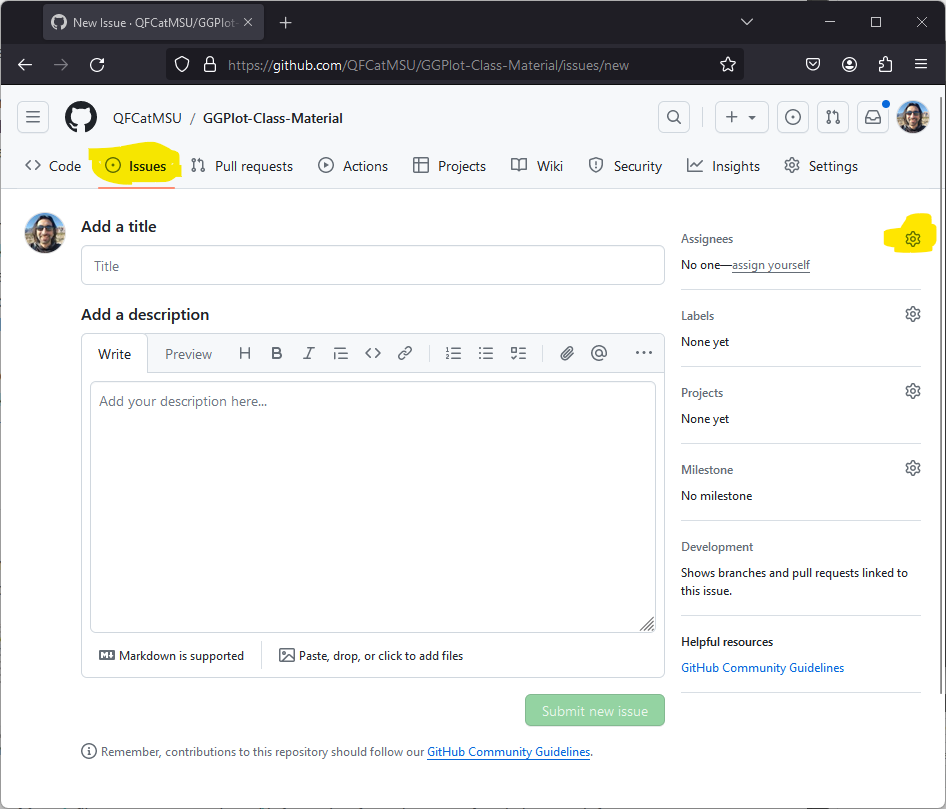
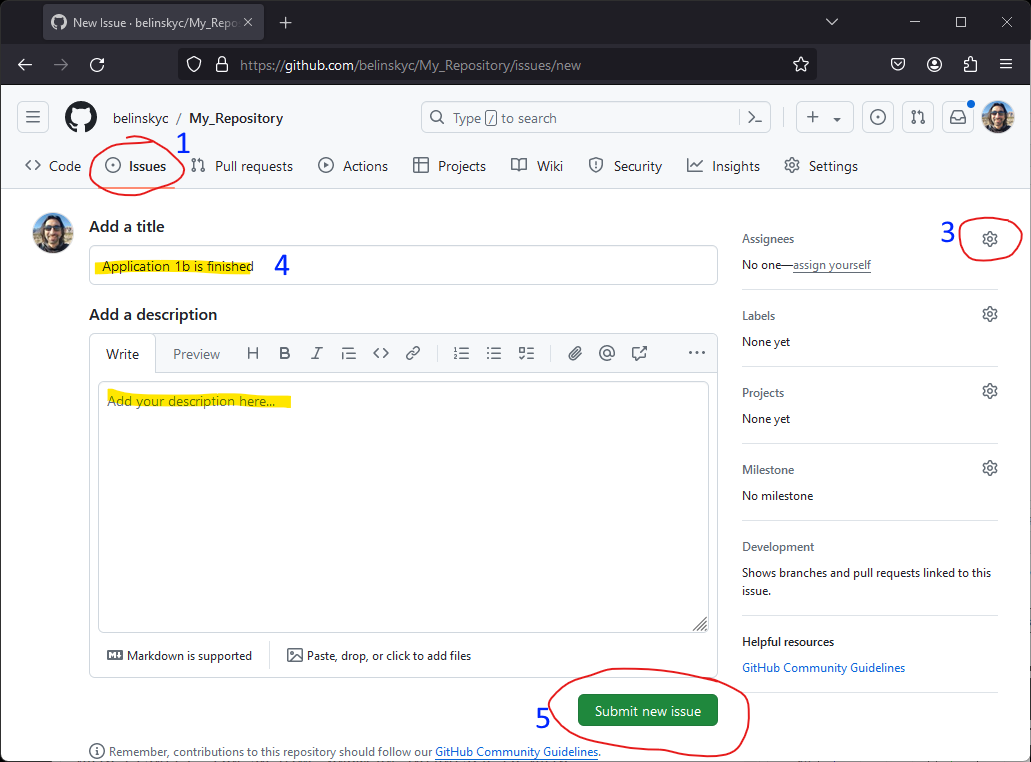
Updates to lessons 1a and 1b

diff --git a/docs/lessons/01b-GitAndGitHubSetup.html b/docs/lessons/01b-GitAndGitHubSetup.html
@@ -235,7 +235,7 @@ pre > code.sourceCode > span > a:first-child::before { text-decoration: underlin
   <ul class="collapse">
   <li><a href="#homebrew-installation-of-git-on-mac" id="toc-homebrew-installation-of-git-on-mac" class="nav-link" data-scroll-target="#homebrew-installation-of-git-on-mac"><span class="header-section-number">2.1</span> Homebrew installation of Git on Mac:</a></li>
   </ul></li>
-  <li><a href="#terminal" id="toc-terminal" class="nav-link" data-scroll-target="#terminal"><span class="header-section-number">3</span> Terminal</a></li>
+  <li><a href="#rstudio-terminal" id="toc-rstudio-terminal" class="nav-link" data-scroll-target="#rstudio-terminal"><span class="header-section-number">3</span> RStudio Terminal</a></li>
   <li><a href="#configuring-git-on-your-computer" id="toc-configuring-git-on-your-computer" class="nav-link" data-scroll-target="#configuring-git-on-your-computer"><span class="header-section-number">4</span> Configuring Git on your computer</a>
   <ul class="collapse">
   <li><a href="#adding-the-username-and-email" id="toc-adding-the-username-and-email" class="nav-link" data-scroll-target="#adding-the-username-and-email"><span class="header-section-number">4.1</span> Adding the username and email</a></li>
@@ -263,7 +263,8 @@ pre > code.sourceCode > span > a:first-child::before { text-decoration: underlin
   <ul class="collapse">
   <li><a href="#questions-to-answer" id="toc-questions-to-answer" class="nav-link" data-scroll-target="#questions-to-answer"><span class="header-section-number">10.1</span> Questions to answer</a></li>
   </ul></li>
-  <li><a href="#git-and-github-extension" id="toc-git-and-github-extension" class="nav-link" data-scroll-target="#git-and-github-extension"><span class="header-section-number">11</span> <del>Git and GitHub (extension)</del></a></li>
+  <li><a href="#extension-git-and-github" id="toc-extension-git-and-github" class="nav-link" data-scroll-target="#extension-git-and-github"><span class="header-section-number">11</span> Extension: Git and GitHub</a></li>
+  <li><a href="#extension-use-git-tab" id="toc-extension-use-git-tab" class="nav-link" data-scroll-target="#extension-use-git-tab"><span class="header-section-number">12</span> Extension: Use Git Tab</a></li>
   </ul>
 </nav>
 </nav>
@@ -296,7 +297,7 @@ pre > code.sourceCode > span > a:first-child::before { text-decoration: underlin
 <section id="to-dos" class="level3" data-number="0.1">
 <h3 data-number="0.1" class="anchored" data-anchor-id="to-dos"><span class="header-section-number">0.1</span> To-dos</h3>
 <ul>
-<li>Show how to use Git tab in app?</li>
+<li>Show how to use Git tab in app as an extension</li>
 </ul>
 </section>
 <section id="purpose" class="level2" data-number="1">
@@ -304,6 +305,7 @@ pre > code.sourceCode > span > a:first-child::before { text-decoration: underlin
 <ul>
 <li><p>Setup Git on your computer</p></li>
 <li><p>Use Git to connect your RStudio Project to a GitHub repository</p></li>
+<li><p>Share your GitHub repository</p></li>
 </ul>
 <section id="prerequisite" class="level3" data-number="1.1">
 <h3 data-number="1.1" class="anchored" data-anchor-id="prerequisite"><span class="header-section-number">1.1</span> Prerequisite</h3>
@@ -312,7 +314,7 @@ pre > code.sourceCode > span > a:first-child::before { text-decoration: underlin
 </section>
 <section id="install-git-on-your-computer-need-version-2.44-or-higher" class="level2" data-number="2">
 <h2 data-number="2" class="anchored" data-anchor-id="install-git-on-your-computer-need-version-2.44-or-higher"><span class="header-section-number">2</span> Install Git on your computer (need version 2.44 or higher)</h2>
-<p>For <strong><em>Windows</em></strong>, <a href="https://git-scm.com/downloads">click here to download and install Git</a> – click on <strong><em>Download for Windows</em></strong>. There are a lot of questions Git asks when installing, you can choose the default choice on everything.</p>
+<p>For <strong><em>Windows</em></strong>, <a href="https://git-scm.com/downloads">click here to download and install Git</a> – click on <strong><em>Download for Windows</em></strong>. There are a lot of questions Git asks when installing, you can choose the default option for everything.</p>
 <p>&nbsp;</p>
 <p>For <strong><em>Mac</em></strong>, <span class="hl">there is no direct installation of Git</span>. I recommend using <strong>Homebrew</strong>, which is a useful tool for any programmer using a Mac because it gives you access to a bunch of programming tools.</p>
 <section id="homebrew-installation-of-git-on-mac" class="level3" data-number="2.1">
@@ -337,9 +339,9 @@ pre > code.sourceCode > span > a:first-child::before { text-decoration: underlin
 </section>
 </section>
 </section>
-<section id="terminal" class="level2" data-number="3">
-<h2 data-number="3" class="anchored" data-anchor-id="terminal"><span class="header-section-number">3</span> Terminal</h2>
-<p>We will be using the <strong><em>Terminal</em></strong> tab in RStudio to setup Git and to connect your project to a repository on GitHub. The <strong><em>Terminal</em></strong> in RStudio is a tab in the lower right area in RStudio. The <strong><em>Terminal</em></strong> tab is similar to the Command Prompt in Windows or Terminal in Mac</p>
+<section id="rstudio-terminal" class="level2" data-number="3">
+<h2 data-number="3" class="anchored" data-anchor-id="rstudio-terminal"><span class="header-section-number">3</span> RStudio Terminal</h2>
+<p>We will be using the <strong><em>Terminal</em></strong> tab in RStudio to setup Git and to connect your project to a repository on GitHub. The <strong><em>Terminal</em></strong> in RStudio is a tab in the lower left area in RStudio. The <strong><em>Terminal</em></strong> tab is similar to the Command Prompt in Windows or Terminal in Mac</p>
 <p>&nbsp;</p>
 <p>Most of the Terminal command used in this lesson will only work if you are in the correct RStudio Project. The RStudio Project name (in this case, <strong><em>My_Project</em></strong>) is in the upper-right corner of RStudio.</p>
 <div id="fig-RStudioTermProj" class="fs quarto-float quarto-figure quarto-figure-left anchored">
@@ -357,7 +359,7 @@ Figure&nbsp;1: RStudio Terminal tab (don’t forget to check the Project Folder)
 <h2 data-number="4" class="anchored" data-anchor-id="configuring-git-on-your-computer"><span class="header-section-number">4</span> Configuring Git on your computer</h2>
 <p>To use Git for your project, you first need to configure Git on your computer with your GitHub username and email. The username and email are used by Git and GitHub to identify who made what changes in the project history – this is especially important when you are collaborating on a project.</p>
 <p>&nbsp;</p>
-<p><span class="hl">Git will not check if you put in wrong or in</span><span class="hl">valid usernames and emails</span>.</p>
+<p><span class="hl">Git will not check if you put in wrong or invalid usernames and emails</span>.</p>
 <section id="adding-the-username-and-email" class="level3" data-number="4.1">
 <h3 data-number="4.1" class="anchored" data-anchor-id="adding-the-username-and-email"><span class="header-section-number">4.1</span> Adding the username and email</h3>
 <p>We will use the RStudio <strong><em>Terminal</em></strong> tab to enter these values.</p>
@@ -400,7 +402,7 @@ Figure&nbsp;3: Testing the git configuration using the RStudio Terminal tab
 </section>
 <section id="add-git-to-your-rstudio-project-folder" class="level2" data-number="5">
 <h2 data-number="5" class="anchored" data-anchor-id="add-git-to-your-rstudio-project-folder"><span class="header-section-number">5</span> Add Git to your RStudio Project folder</h2>
-<p>We are now going to create a Git repository in the same folder as your RStudio Project. <strong><em>Repository</em></strong> is Git and GitHub’s name for a Project Folder.</p>
+<p>We are now going to create a Git repository in the same folder as your RStudio Project. <span class="hl">Repository</span> is Git and GitHub’s name for a Project Folder.</p>
 <p>&nbsp;</p>
 <p><strong>To add a Git repository to your RStudio Project folder</strong></p>
 <ol type="1">
@@ -420,7 +422,7 @@ Figure&nbsp;3: Testing the git configuration using the RStudio Terminal tab
 </ol>
 <section id="rstudio-git-tab" class="level3" data-number="5.1">
 <h3 data-number="5.1" class="anchored" data-anchor-id="rstudio-git-tab"><span class="header-section-number">5.1</span> RStudio Git tab</h3>
-<p>When you add Git to an RStudio Project folder, a&nbsp;<strong><em>Git</em></strong> tab will appear in the upper-right window. This is RStudio’s built-in Git interface and it can handle many commonly performed Git functions, including most of the things needed for class. However, I will only be presenting instruction for the Terminal.</p>
+<p>When you add Git to an RStudio Project folder, a&nbsp;<strong><em>Git</em></strong> tab will appear in the upper-right window. This is RStudio’s built-in Git interface and it can handle many commonly performed Git functions, including most of the things needed for class.</p>
 <div id="fig-GitTab" class="fs quarto-float quarto-figure quarto-figure-left anchored">
 <figure class="quarto-float quarto-float-fig figure">
 <div aria-describedby="fig-GitTab-caption-0ceaefa1-69ba-4598-a22c-09a6ac19f8ca">
@@ -435,7 +437,7 @@ Figure&nbsp;4: The Git tab has been added to the RStudio Project
 </section>
 <section id="create-a-github-repository" class="level2" data-number="6">
 <h2 data-number="6" class="anchored" data-anchor-id="create-a-github-repository"><span class="header-section-number">6</span> Create a GitHub repository</h2>
-<p>A <span class="hl">GitHub repository</span> is an online storage location that syncs with the Git repository (Project Folder) on your computer.</p>
+<p>A <span class="hl">GitHub repository</span> is an online storage location that syncs with the Git repository (Project Folder) on your computer. <a href="#extension-git-and-github">Extension: Git and GitHub</a></p>
 <p>&nbsp;</p>
 <p>To create a GitHub repository (<a href="#fig-GitURL" class="quarto-xref">Figure&nbsp;5</a>)</p>
 <ol type="1">
@@ -507,10 +509,10 @@ Figure&nbsp;7: Inviting a user to your GitHub Repository
 </section>
 <section id="linking-your-git-repository-to-a-github-repository" class="level2" data-number="7">
 <h2 data-number="7" class="anchored" data-anchor-id="linking-your-git-repository-to-a-github-repository"><span class="header-section-number">7</span> Linking your Git repository to a GitHub repository</h2>
-<p>In this section we are going to link your Git repository, which is in the same folder as your RStudio Project, with your GitHub Repository.&nbsp; The GitHub repository will be the online version of your Git repository and can be shared.&nbsp;</p>
+<p>In this section we are going to link your Git repository, which is in the same folder as your RStudio Project, with your GitHub Repository.&nbsp; The GitHub repository will be the online version of your Git repository.&nbsp;</p>
 <p><span class="hl">Warning: This only works if the GitHub repository is empty .</span></p>
 <p>&nbsp;</p>
-<p>Type the line below into the Terminal. Replace the URL with the URL for your GitHub repository. Make sure your are in your RStudio Project.</p>
+<p>Type the line below into the <strong><em>Terminal</em></strong>. Replace the URL with the URL for your GitHub repository. Make sure your are in your RStudio Project.</p>
 <div class="sourceCode" id="cb6"><pre class="sourceCode bash code-with-copy"><code class="sourceCode bash"><span id="cb6-1"><a href="#cb6-1" aria-hidden="true" tabindex="-1"></a><span class="fu">git</span> remote add origin <span class="st">"https://github.com/myUserName/myRepository.git"</span></span></code><button title="Copy to Clipboard" class="code-copy-button"><i class="bi"></i></button></pre></div>
 <p><span class="note">Note: In Windows, <strong>Control-V</strong> does not paste in a Terminal window, but <strong>right-click</strong> -&gt; <strong>Paste</strong> works</span></p>
 <section id="if-you-added-the-wrong-repository-name" class="level3" data-number="7.1">
@@ -525,7 +527,7 @@ Figure&nbsp;7: Inviting a user to your GitHub Repository
 <h2 data-number="8" class="anchored" data-anchor-id="uploading-to-the-github-repository"><span class="header-section-number">8</span> Uploading to the GitHub repository</h2>
 <p>Git/GitHub is asynchronous. Changes to your local project are not automatically uploaded to GitHub – you need to explicitly upload the changes.</p>
 <p>&nbsp;</p>
-<p>To upload your changes to GitHub, in the Terminal type:</p>
+<p>To upload your changes to GitHub, in the <strong><em>Terminal</em></strong> type:</p>
 <div class="sourceCode" id="cb9"><pre class="sourceCode bash code-with-copy"><code class="sourceCode bash"><span id="cb9-1"><a href="#cb9-1" aria-hidden="true" tabindex="-1"></a><span class="fu">git</span> add <span class="at">-A</span></span>
 <span id="cb9-2"><a href="#cb9-2" aria-hidden="true" tabindex="-1"></a><span class="fu">git</span> commit <span class="at">-m</span> <span class="st">"A message about the changes to your project"</span></span>
 <span id="cb9-3"><a href="#cb9-3" aria-hidden="true" tabindex="-1"></a><span class="fu">git</span> push <span class="at">-u</span> origin main</span></code><button title="Copy to Clipboard" class="code-copy-button"><i class="bi"></i></button></pre></div>
@@ -587,21 +589,20 @@ Figure&nbsp;10: GitHub after a new Commit was pushed
 </section>
 <section id="application" class="level2" data-number="10">
 <h2 data-number="10" class="anchored" data-anchor-id="application"><span class="header-section-number">10</span> Application</h2>
+<p>A) Append to the top of your <strong><em>app01.r</em></strong> the <a href="#questions-to-answer">Questions to answer</a> for this lesson.</p>
+<p>B) Send the change to GitHub by executing these lines in the <strong><em>Terminal</em></strong>:</p>
+<div class="sourceCode" id="cb10"><pre class="sourceCode bash code-with-copy"><code class="sourceCode bash"><span id="cb10-1"><a href="#cb10-1" aria-hidden="true" tabindex="-1"></a><span class="fu">git</span> add <span class="at">-A</span></span>
+<span id="cb10-2"><a href="#cb10-2" aria-hidden="true" tabindex="-1"></a><span class="fu">git</span> commit <span class="at">-m</span> <span class="st">"Finished lesson 1b application"</span></span>
+<span id="cb10-3"><a href="#cb10-3" aria-hidden="true" tabindex="-1"></a><span class="fu">git</span> push <span class="at">-u</span> origin main</span></code><button title="Copy to Clipboard" class="code-copy-button"><i class="bi"></i></button></pre></div>
+<p>Alternatively, you can use the Git tab: <a href="#extension-use-git-tab">Extension: Use Git Tab</a></p>
+<p>&nbsp;</p>
+<p>C) Create an Issue in your GitHub repository</p>
 <ol type="1">
-<li><p>Send the change to GitHub be executing these lines in the Terminal &lt;show how these can be done in Git Tab – can show in one image&gt;:</p>
-<ul>
-<li><p>git add -A</p></li>
-<li><p>git commit -m “Finished lesson 1 application”</p></li>
-<li><p>git push -u origin master</p></li>
-</ul></li>
-<li><p>Create an Issue in GitHub</p>
-<ol type="1">
-<li><p>Go to your repository</p></li>
 <li><p>Click on <strong><em>Issues</em></strong> (top of page)</p></li>
-<li><p>Click on <strong><em>New Issue</em></strong> (green button)</p></li>
+<li><p>Click on <strong><em>New Issue</em></strong> (green button – not pictured)</p></li>
 <li><p>Click on Setting wheel and add the instructor as an assignee (<strong><em>belinskyc</em></strong>)</p></li>
-<li><p>Put in <strong><em>title</em></strong> that application 1 is finished, add anything you want to the <strong><em>description</em></strong>, and click <strong><em>Submit new issue</em></strong></p></li>
-</ol></li>
+<li><p>Put in <strong><em>title</em></strong> that application 1b is finished, add anything you want to the <strong><em>description</em></strong>, and</p></li>
+<li><p>Click <strong><em>Submit new issue</em></strong></p></li>
 </ol>
 <div id="fig-GitHubIssue" class="fs quarto-float quarto-figure quarto-figure-left anchored" data-grrr="true">
 <figure class="quarto-float quarto-float-fig figure">
@@ -623,11 +624,36 @@ Figure&nbsp;11: Creating an Issue in GitHub
 </ol>
 </section>
 </section>
-<section id="git-and-github-extension" class="level2" data-number="11">
-<h2 data-number="11" class="anchored" data-anchor-id="git-and-github-extension"><span class="header-section-number">11</span> <del>Git and GitHub (extension)</del></h2>
-<p><del><strong><em>Git</em></strong> and <strong><em>GitHub</em></strong> are two terms that are often conflated.&nbsp;<span class="hl">Git</span> is versioning software – you use Git on your computer to create a retrievable history of your project.&nbsp; With this project history, you can bring back previous versions of files or your entire Project.&nbsp; Git calls this a <span class="hl">repository</span>.</del></p>
-<p><span class="hl"><del>GitHub</del></span> <del>is an online software development platform where you can store, sync, and share your Git repository.&nbsp; When combined, Git and GitHub make a very powerful project-management system. For this class, we will use Git and GitHub for your class assignments.</del></p>
-<p><del>While Git and GitHub are very powerful tools, they are not intuitive and there is a pretty high-barrier to entry.</del></p>
+<section id="extension-git-and-github" class="level2" data-number="11">
+<h2 data-number="11" class="anchored" data-anchor-id="extension-git-and-github"><span class="header-section-number">11</span> Extension: Git and GitHub</h2>
+<p><strong><em>Git</em></strong> and <strong><em>GitHub</em></strong> are two terms that are often conflated.&nbsp;<span class="hl">Git</span> is versioning software – you use Git on your computer to create a retrievable history of your project.&nbsp; With this project history, you can bring back previous versions of files or your entire Project.&nbsp; Git calls this a <span class="hl">repository</span>.</p>
+<p>&nbsp;</p>
+<p><span class="hl">GitHub</span> is an online software development platform where you can store, sync, and share your Git repository.&nbsp; When combined, Git and GitHub make a very powerful project-management system. For this class, we will use Git and GitHub for your class assignments.</p>
+<p>&nbsp;</p>
+<p>While Git and GitHub are very powerful tools, they are not intuitive and there is a pretty high-barrier to entry.</p>
+</section>
+<section id="extension-use-git-tab" class="level2" data-number="12">
+<h2 data-number="12" class="anchored" data-anchor-id="extension-use-git-tab"><span class="header-section-number">12</span> Extension: Use Git Tab</h2>
+<p>The Git tab can be used to sync changes from your Project Folder to your GitHub repository.</p>
+<ol type="1">
+<li><p>In the Git tab, click <strong><em>Commit</em></strong> and the <strong><em>RStudio Review Changes</em></strong> window appears</p></li>
+<li><p>On the left, check the files you want to sync with your GitHub repository (you do not have to check all of them)</p></li>
+<li><p>On the right side, put a message in that describes the changes</p></li>
+<li><p>Click <strong><em>Commit</em></strong> in the lower right</p></li>
+<li><p>Close the window that pops up</p></li>
+<li><p>click <strong><em>Push</em></strong> in the upper-right</p></li>
+<li><p>Close the windows</p></li>
+</ol>
+<div id="fig-usingGitTab" class="fs quarto-float quarto-figure quarto-figure-left anchored">
+<figure class="quarto-float quarto-float-fig figure">
+<div aria-describedby="fig-usingGitTab-caption-0ceaefa1-69ba-4598-a22c-09a6ac19f8ca">
+<img src="images/GH_UsingGitTab.png" class="fs img-fluid figure-img">
+</div>
+<figcaption class="quarto-float-caption-bottom quarto-float-caption quarto-float-fig" id="fig-usingGitTab-caption-0ceaefa1-69ba-4598-a22c-09a6ac19f8ca">
+Figure&nbsp;12: Using the Git tab to sync with your Github repository
+</figcaption>
+</figure>
+</div>
 
 
 </section>

diff --git a/docs/lessons/01a-RStudioProjectsSetup.html b/docs/lessons/01a-RStudioProjectsSetup.html
@@ -248,7 +248,7 @@ pre > code.sourceCode > span > a:first-child::before { text-decoration: underlin
   <ul class="collapse">
   <li><a href="#create-a-new-rstudio-project" id="toc-create-a-new-rstudio-project" class="nav-link" data-scroll-target="#create-a-new-rstudio-project"><span class="header-section-number">5.1</span> Create a new RStudio Project</a></li>
   <li><a href="#rstudio-project-files-tab" id="toc-rstudio-project-files-tab" class="nav-link" data-scroll-target="#rstudio-project-files-tab"><span class="header-section-number">5.2</span> RStudio Project Files Tab</a></li>
-  <li><a href="#viewing-hidden-files" id="toc-viewing-hidden-files" class="nav-link" data-scroll-target="#viewing-hidden-files"><span class="header-section-number">5.3</span> Viewing hidden files</a></li>
+  <li><a href="#viewing-hidden-files-in-rstudio" id="toc-viewing-hidden-files-in-rstudio" class="nav-link" data-scroll-target="#viewing-hidden-files-in-rstudio"><span class="header-section-number">5.3</span> Viewing hidden files in RStudio</a></li>
   <li><a href="#add-subfolders" id="toc-add-subfolders" class="nav-link" data-scroll-target="#add-subfolders"><span class="header-section-number">5.4</span> Add Subfolders</a></li>
   <li><a href="#add-files-to-the-project" id="toc-add-files-to-the-project" class="nav-link" data-scroll-target="#add-files-to-the-project"><span class="header-section-number">5.5</span> Add files to the project</a></li>
   <li><a href="#opening-file-manager-from-files-tab" id="toc-opening-file-manager-from-files-tab" class="nav-link" data-scroll-target="#opening-file-manager-from-files-tab"><span class="header-section-number">5.6</span> Opening File Manager from Files tab</a></li>
@@ -265,7 +265,7 @@ pre > code.sourceCode > span > a:first-child::before { text-decoration: underlin
   <li><a href="#application" id="toc-application" class="nav-link" data-scroll-target="#application"><span class="header-section-number">7</span> Application</a>
   <ul class="collapse">
   <li><a href="#questions-to-answer" id="toc-questions-to-answer" class="nav-link" data-scroll-target="#questions-to-answer"><span class="header-section-number">7.1</span> Questions to answer</a></li>
-  <li><a href="#zipping-your-project-folder" id="toc-zipping-your-project-folder" class="nav-link" data-scroll-target="#zipping-your-project-folder"><span class="header-section-number">7.2</span> Zipping your Project Folder</a></li>
+  <li><a href="#zip-your-project-folder" id="toc-zip-your-project-folder" class="nav-link" data-scroll-target="#zip-your-project-folder"><span class="header-section-number">7.2</span> Zip your Project Folder</a></li>
   </ul></li>
   <li><a href="#extension-color-schemes" id="toc-extension-color-schemes" class="nav-link" data-scroll-target="#extension-color-schemes"><span class="header-section-number">8</span> Extension: Color Schemes</a>
   <ul class="collapse">
@@ -323,15 +323,16 @@ pre > code.sourceCode > span > a:first-child::before { text-decoration: underlin
 <section id="to-dos" class="level3" data-number="0.1">
 <h3 data-number="0.1" class="anchored" data-anchor-id="to-dos"><span class="header-section-number">0.1</span> To-dos</h3>
 <ul>
-<li>Have checklist – allow student to go to end if they know everything</li>
+<li>Have checklist</li>
 </ul>
 </section>
 <section id="purpose" class="level2" data-number="1">
 <h2 data-number="1" class="anchored" data-anchor-id="purpose"><span class="header-section-number">1</span> Purpose</h2>
 <ul>
 <li><p>Installation of software and packages needed for class</p></li>
-<li><p>Execute, using the Source button, an R script with GGPlots</p></li>
 <li><p>Set up an RStudio Project</p></li>
+<li><p>Execute, using the Source button, an R script with GGPlots</p></li>
+<li><p>Share project</p></li>
 </ul>
 <section id="note" class="level3" data-number="1.1">
 <h3 data-number="1.1" class="anchored" data-anchor-id="note"><span class="header-section-number">1.1</span> Note</h3>
@@ -340,12 +341,12 @@ pre > code.sourceCode > span > a:first-child::before { text-decoration: underlin
 </section>
 <section id="special-note-about-images-in-the-lessons-for-this-class" class="level3" data-number="1.2">
 <h3 data-number="1.2" class="anchored" data-anchor-id="special-note-about-images-in-the-lessons-for-this-class"><span class="header-section-number">1.2</span> - Special note about images in the lessons for this class</h3>
-<p>RStudio is a rapidly evolving program, and it would be too much work to maintain all the images so that they reflect the newest version of RStudio and its visual likeness.&nbsp; Some of the images in this class still reflect the 2019 version of RStudio (v1.1).&nbsp; And there are minor changes that I have made to the code that I did not believe warrants putting in new images. I have tried to make sure these differences change nothing functionally.&nbsp; Inevitably, something will fall through the cracks – so please, contact the instructor if there is something causing a problem!</p>
+<p>RStudio is a rapidly evolving program, and it would be too much work to maintain all the images so that they reflect the newest version of RStudio and its visual likeness.&nbsp; Some of the images in this class reflect older versions of RStudio and there are minor changes that I have made to the code that I did not believe warrants putting in new images. I have tried to make sure these differences change nothing functionally.&nbsp; Inevitably, something will fall through the cracks – so please, contact the instructor if there is a problem!</p>
 </section>
 </section>
 <section id="viewing-file-extensions-and-hidden-files" class="level2" data-number="2">
 <h2 data-number="2" class="anchored" data-anchor-id="viewing-file-extensions-and-hidden-files"><span class="header-section-number">2</span> Viewing file extensions and hidden files</h2>
-<p>By default, Windows and Mac hides file extensions from you (e.g., your Word document file is listed in the file manager as <strong><em>stuff</em></strong> instead of <strong><em>stuff.docx</em></strong>).&nbsp; This is not convenient when you are programming as you are working with many file types (e.g., *.txt, *.r, *.csv) and, many times, the only difference between the name of two files is the extension.&nbsp; For instance, you might have two files called <strong><em>weather.r</em></strong> and <strong><em>weather.csv</em></strong> in your folder – without file extension they are both listed as <strong>weather</strong>.</p>
+<p>By default, Windows and Mac hides file extensions from you (e.g., your Word document file is listed in the file manager as <strong><em>stuff</em></strong> instead of <strong><em>stuff.docx</em></strong>).&nbsp; This is not convenient when you are programming as you are working with many file types (e.g., *.txt, *.r, *.csv) and, many times, the only difference between the name of two files is the extension.&nbsp; For instance, you might have two files called <strong><em>weather.r</em></strong> and <strong><em>weather.csv</em></strong> in your folder – without file extensions they are both listed as <strong>weather</strong>.</p>
 <p>&nbsp;</p>
 <p>Also, when you are programming, there are files you will need to access that are hidden by default by the operating system.</p>
 <p>&nbsp;</p>
@@ -428,11 +429,11 @@ Figure&nbsp;3: Change settings to view all file extensions on a Mac
 </section>
 <section id="install-r-and-rstudio-on-your-computer" class="level2" data-number="3">
 <h2 data-number="3" class="anchored" data-anchor-id="install-r-and-rstudio-on-your-computer"><span class="header-section-number">3</span> Install R and RStudio on your computer</h2>
-<p>We are going to install three programs on your computer: <strong>R</strong> and <strong>RStudio</strong>. R is a programming language and RStudio provides a structured environment for the R programming language, similar to the way Microsoft Word provides a structured environment for text editing. RStudio is patterned on other popular programming environments like <a href="https://visualstudio.microsoft.com/">Microsoft’s Visual Studio</a>.</p>
+<p>We are going to install <strong>R</strong> and <strong>RStudio</strong> on your computer. R is a programming language and RStudio provides a structured environment for the R programming language, similar to the way Microsoft Word provides a structured environment for document editing. RStudio is patterned on other popular programming environments like <a href="https://visualstudio.microsoft.com/">Microsoft’s Visual Studio</a>.</p>
 <p>&nbsp;</p>
 <p>On Windows the default installation can be used for R and RStudio. For Mac, installation is a bit trickier – details below.</p>
 <p>&nbsp;</p>
-<p><span class="note">Note: Even if you already have the software installed, it is a good idea to verify you have the latest version.</span></p>
+<p><span class="note">Note: Even if you already have the software installed, it is a good idea to verify you have a recent version.</span></p>
 <section id="install-or-update-r-need-version-4.3-or-higher" class="level3" data-number="3.1">
 <h3 data-number="3.1" class="anchored" data-anchor-id="install-or-update-r-need-version-4.3-or-higher"><span class="header-section-number">3.1</span> Install or update R (need version 4.3 or higher)</h3>
 <p>The <a href="https://cran.r-project.org/bin/windows/base/">R for Windows download is here</a>. Click on <strong><em>Download R 4.#.# for Windows</em></strong>.<br>
@@ -520,7 +521,7 @@ Figure&nbsp;6: Installing the GGPlot2 Package in RStudio
 <p>In this class we will be using <strong>RStudio</strong> to create, edit, and execute <strong>R</strong> scripts.&nbsp; In <strong>RStudio</strong>, there is a feature called <strong>RStudio Projects</strong>, which is a Project Folder, that makes it much easier to move, share, and host your project on GitHub.&nbsp; <span class="hl">You need to keep all of your class work in an RStudio Project.</span></p>
 <section id="create-a-new-rstudio-project" class="level3" data-number="5.1">
 <h3 data-number="5.1" class="anchored" data-anchor-id="create-a-new-rstudio-project"><span class="header-section-number">5.1</span> Create a new RStudio Project</h3>
-<p>To create a new RStudio Project:</p>
+<p>To create a new RStudio Project, which is also your project folder:</p>
 <ul>
 <li><p>open RStudio</p></li>
 <li><p>click <strong><em>File</em></strong> -&gt; <strong><em>New Project</em></strong>&nbsp;</p></li>
@@ -574,9 +575,9 @@ Figure&nbsp;9: Files tab opened to the Project Folder
 </figure>
 </div>
 </section>
-<section id="viewing-hidden-files" class="level3" data-number="5.3">
-<h3 data-number="5.3" class="anchored" data-anchor-id="viewing-hidden-files"><span class="header-section-number">5.3</span> Viewing hidden files</h3>
-<p>By default, the <strong><em>Files</em></strong> tab shows file extension but it does not show hidden files.&nbsp; If you click on <strong><em>More -&gt; Show Hidden Files</em></strong>, you will also see the hidden folder <strong><em>.Rproj.user</em></strong> – this is not a folder you will use in this class.</p>
+<section id="viewing-hidden-files-in-rstudio" class="level3" data-number="5.3">
+<h3 data-number="5.3" class="anchored" data-anchor-id="viewing-hidden-files-in-rstudio"><span class="header-section-number">5.3</span> Viewing hidden files in RStudio</h3>
+<p>By default, the <strong><em>Files</em></strong> tab shows file extension but it does not show hidden files.&nbsp; If you click on <strong><em>More -&gt; Show Hidden Files</em></strong>, you will see the hidden folder <strong><em>.Rproj.user</em></strong> – this is not a folder you will use in this class.</p>
 <p>&nbsp;</p>
 <div id="fig-hiddenFiles" class="fs quarto-float quarto-figure quarto-figure-left anchored">
 <figure class="quarto-float quarto-float-fig figure">
@@ -594,7 +595,7 @@ Figure&nbsp;10: Showing hidden files
 <h3 data-number="5.4" class="anchored" data-anchor-id="add-subfolders"><span class="header-section-number">5.4</span> Add Subfolders</h3>
 <p>We will use the <strong><em>Files</em></strong> tab in RStudio (bottom-right tab) to create two subfolders:&nbsp;<strong><em>scripts</em></strong> and <strong><em>data</em></strong>.</p>
 <p>&nbsp;</p>
-<p>To add two folders named scripts and data:</p>
+<p>To add two folders named <strong><em>scripts</em></strong> and <strong><em>data</em></strong>:</p>
 <ul>
 <li><p>Click on <strong><em>New Folder</em></strong> in the <strong><em>Files</em></strong> tab</p></li>
 <li><p>Enter <strong><em>scripts</em></strong> in the textbox and click <strong><em>OK</em></strong></p></li>
@@ -614,8 +615,6 @@ Figure&nbsp;11: Adding folders using the Files tab in RStudio
 <section id="add-files-to-the-project" class="level3" data-number="5.5">
 <h3 data-number="5.5" class="anchored" data-anchor-id="add-files-to-the-project"><span class="header-section-number">5.5</span> Add files to the project</h3>
 <p>We are going to download two files and add them to your new RStudio Project.</p>
-<p>&nbsp;</p>
-<p>Download these files by&nbsp;<strong><em>right-clicking</em></strong> on the link and choosing <strong><em>Save Link As…</em></strong>:</p>
 <ul>
 <li><p><a href="../scripts/lesson01-Setup.R">lesson01-Setup.r</a>: put this file in your <strong><em>scripts</em></strong> directory</p></li>
 <li><p><a href="../Data/lesson01-Setup.csv">lesson01-Setup.csv</a>: put this file in your <strong><em>data</em></strong> directory</p></li>
@@ -659,7 +658,7 @@ Figure&nbsp;13: RStudio opened with an RStudio Project (named My_Project)
 <p>&nbsp;</p>
 <p><strong><em>lesson01-Setup.R</em></strong> takes weather data from the other downloaded file, <strong><em>lesson01-Setup.csv</em></strong> and creates boxplots showing how Wind Direction and Wind Speed relate to the Change In Temperature.</p>
 <p>&nbsp;</p>
-<p>The code in <strong><em>lesson01-Setup.R</em></strong> is something you will progressively learn throughout the course – for now we are executing the script to test your setup and help you become familiar with the RStudio environment.</p>
+<p>The code in <strong><em>lesson01-Setup.R</em></strong> is something you will learn throughout the course – for now we are executing the script to test your setup and help you become familiar with the RStudio environment.</p>
 <section id="open-your-rstudio-project" class="level3" data-number="6.1">
 <h3 data-number="6.1" class="anchored" data-anchor-id="open-your-rstudio-project"><span class="header-section-number">6.1</span> Open your RStudio Project</h3>
 <p>There are multiple ways to open an RStudio Project – three of them are:</p>
@@ -671,7 +670,6 @@ Figure&nbsp;13: RStudio opened with an RStudio Project (named My_Project)
 </section>
 <section id="open-a-script-file-in-your-project" class="level3" data-number="6.2">
 <h3 data-number="6.2" class="anchored" data-anchor-id="open-a-script-file-in-your-project"><span class="header-section-number">6.2</span> Open a script file in your Project</h3>
-<p>We are going to execute the script file that we just downloaded.&nbsp;</p>
 <p>To open the script file either:</p>
 <ul>
 <li><p>In <strong><em>Files</em></strong> tab, go to the <strong><em>scripts</em></strong> folder and click on <strong><em>lesson01-Setup.R</em></strong> or</p></li>
@@ -689,6 +687,7 @@ Figure&nbsp;14: Opening your first script in RStudio
 </figcaption>
 </figure>
 </div>
+<p>The script will only execute if <span class="hl">it is opened inside your RStudio Project</span>.</p>
 </section>
 <section id="setting-up-rstudio-tabs-for-scripts" class="level3" data-number="6.3">
 <h3 data-number="6.3" class="anchored" data-anchor-id="setting-up-rstudio-tabs-for-scripts"><span class="header-section-number">6.3</span> Setting up RStudio tabs for scripts</h3>
@@ -742,7 +741,7 @@ Figure&nbsp;16: Running (Sourcing) the script
 <h3 data-number="6.5" class="anchored" data-anchor-id="cleaning-up-the-rstudio-windows"><span class="header-section-number">6.5</span> Cleaning up the RStudio windows</h3>
 <p>There many times where you want to clean up the windows, which can get very crowded with information from old script executions.</p>
 <ul>
-<li>To clean the <strong>Environment,</strong> <strong>Plot</strong>, and <strong>Console</strong> tabs&nbsp;use the brush button ( <a href="#fig-source" class="quarto-xref">Figure&nbsp;16</a>).</li>
+<li>To clean the <strong>Environment,</strong> <strong>Plot</strong>, and <strong>Console</strong> tabs&nbsp;use the brush button (<a href="#fig-source" class="quarto-xref">Figure&nbsp;16</a>).</li>
 </ul>
 <div id="fig-cleanTabs" class="fs quarto-float quarto-figure quarto-figure-left anchored">
 <figure class="quarto-float quarto-float-fig figure">
@@ -768,7 +767,7 @@ Figure&nbsp;17: Cleaning out the windows
 <li>Here is a <a href="http://www.stat.columbia.edu/~tzheng/files/Rcolor.pdf">comprehensive list of color names</a> you can use in R</li>
 </ul></li>
 <li><p>Save the script as <strong><em>app01.r</em></strong>, and to your <strong><em>script</em></strong> folder</p></li>
-<li><p>Zip your Project Folder and email the Zip file to the instructor: belinsky@msu.edu</p></li>
+<li><p><a href="#zip-your-project-folder">Zip your Project Folder</a> and email the Zip file to the instructor: belinsky@msu.edu</p></li>
 </ol>
 <section id="questions-to-answer" class="level3" data-number="7.1">
 <h3 data-number="7.1" class="anchored" data-anchor-id="questions-to-answer"><span class="header-section-number">7.1</span> Questions to answer</h3>
@@ -779,12 +778,9 @@ Figure&nbsp;17: Cleaning out the windows
 <li><p>What are some things you would like to know more about that is related to, but not covered in, this lesson?</p></li>
 </ol>
 </section>
-<section id="zipping-your-project-folder" class="level3" data-number="7.2">
-<h3 data-number="7.2" class="anchored" data-anchor-id="zipping-your-project-folder"><span class="header-section-number">7.2</span> Zipping your Project Folder</h3>
-<p><strong>To create a Zip file of your Project Folder</strong></p>
-<ol type="1">
-<li>In your File Manager (not in RStudio), <span class="hl">right-click</span> on the Project Folder and in:</li>
-</ol>
+<section id="zip-your-project-folder" class="level3" data-number="7.2">
+<h3 data-number="7.2" class="anchored" data-anchor-id="zip-your-project-folder"><span class="header-section-number">7.2</span> Zip your Project Folder</h3>
+<p>In your File Manager (not in RStudio), <span class="hl">right-click</span> on the Project Folder and in:</p>
 <ul>
 <li><p><strong>Windows 10:</strong></p>
 <ul>
@@ -800,9 +796,7 @@ Figure&nbsp;17: Cleaning out the windows
 <li>Click <strong><em>Compress “&lt;Project Folder&gt;”</em></strong></li>
 </ul></li>
 </ul>
-<ol start="2" type="1">
-<li>For all operating systems, a zipped file named <strong><em>&lt;Project Folder&gt;.zip</em></strong> with all the Project Folders’ contents is created in the same folder</li>
-</ol>
+<p>For all operating systems, a zipped file named <strong><em>&lt;Project Folder&gt;.zip</em></strong> with all the Project Folders’ contents is created in the same folder. You can email the zip file.</p>
 </section>
 </section>
 <section id="extension-color-schemes" class="level2" data-number="8">
